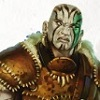
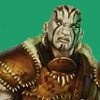
Navbar
Added the navbar to main and did some styling.

diff --git a/public/css/style.css b/public/css/style.css
@@ -1,6 +1,36 @@
+#navBar {
+    background-color: lightblue;
+    position: relative;
+    left: 50%;
+    width: 790px;
+    margin-left: -395px;
+    height: 50px;
+    margin-top: 10px;
+}
+
+.navElement {
+    position: relative;
+    top: 17px;
+    display: inline;
+    margin-left: 10px;
+    margin-right: 10px;
+    font-family: Algerian;
+    font-size: 16px;
+}
+
+ul a:link, ul a:visited{
+    text-decoration: none;
+    color:darkblue;
+}
+
+ul a:hover{
+    color:black;
+}
+
 body {
     padding-left: 20%;
     padding-right: 20%;
+    background-color: darkseagreen !important;
 }
 
 .title {
